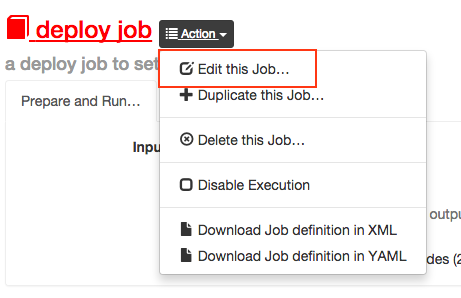
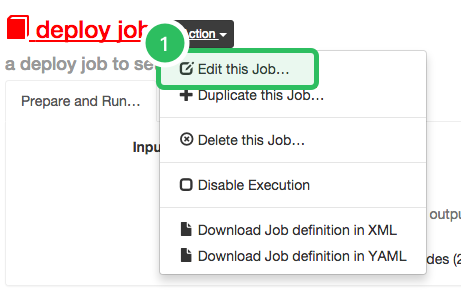
update rundeck images and doc

Changed region(s): [[0.3037, 0.0604, 0.6985, 0.302]]

diff --git a/tutorials/markdown/rundeck.md b/tutorials/markdown/rundeck.md
@@ -22,6 +22,5 @@
 
 这样你就可以在 BearyChat 中收到来自 Rundeck 中 Job 执行状态的消息啦
 
-![](/tutorials/image/rundeck_notification_on_failure.png)
-![](/tutorials/image/rundeck_notification_on_success.png)
+![](/tutorials/image/rundeck_notification.png)
 
